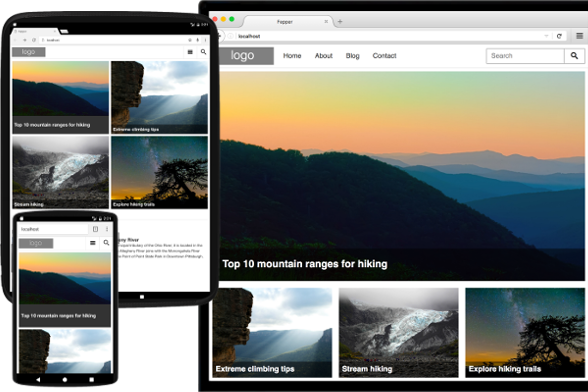
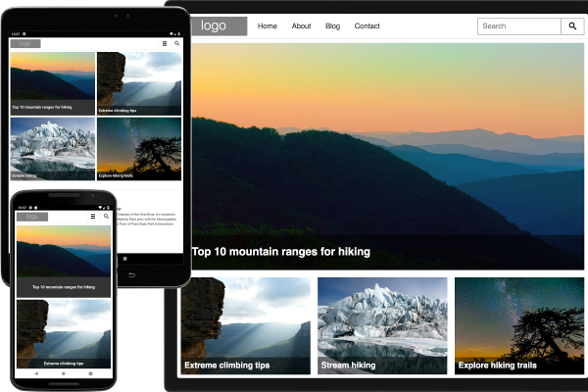
better image rendering in ms edge

diff --git a/fepper/_styles/bld/style.css b/fepper/_styles/bld/style.css
@@ -293,7 +293,6 @@ img,
 video,
 object {
   max-width: 100%;
-  height: auto;
 }
 .more-link {
   font-style: italic;

diff --git a/source/_styles/bld/style.css b/source/_styles/bld/style.css
@@ -293,7 +293,6 @@ img,
 video,
 object {
   max-width: 100%;
-  height: auto;
 }
 .more-link {
   font-style: italic;
